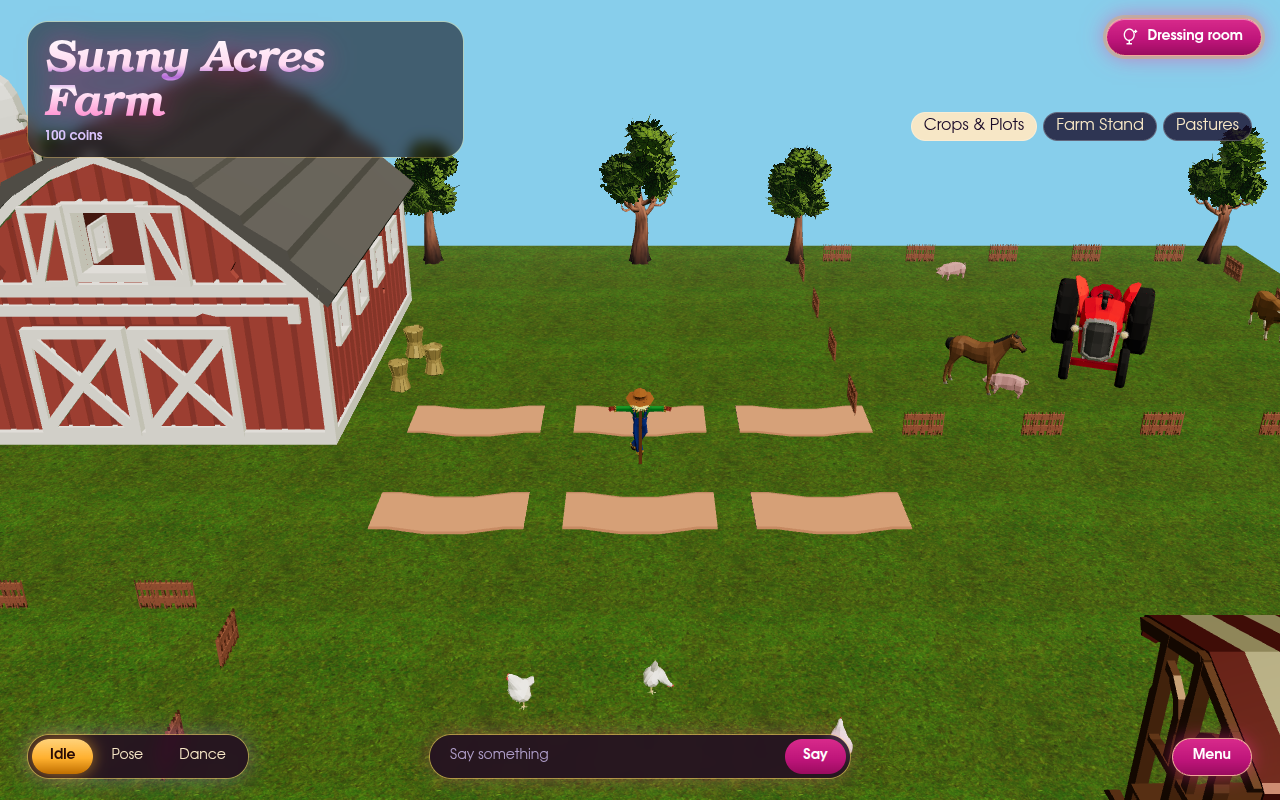
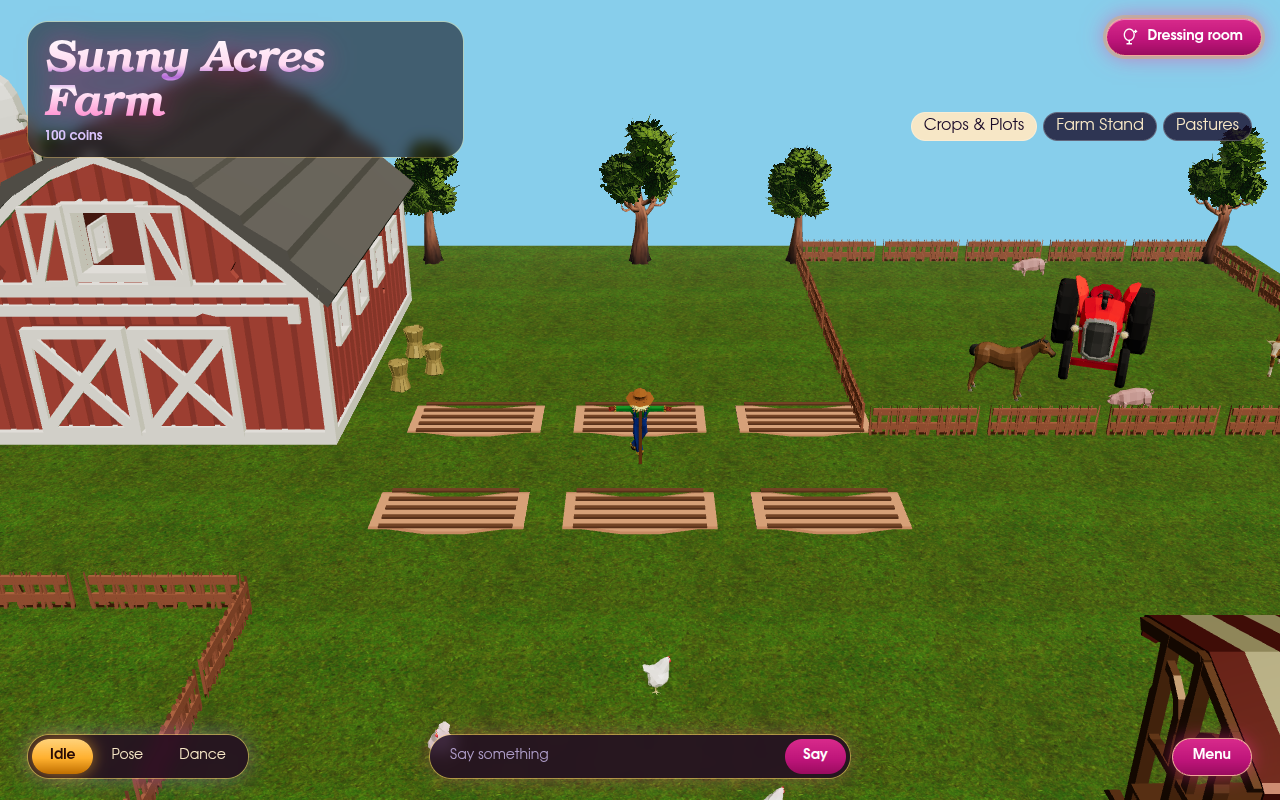
fix(farm): pasture rails stretched to run unbroken; close fence shot

diff --git a/src/game/farm.ts b/src/game/farm.ts
@@ -445,11 +445,11 @@ export const BLOCKERS: readonly (readonly Vec2[])[] = [
   box(8, 10, 13, 14),
 ];
 
-/** Pasture fence panels (the Quaternius fence is 5.9 m long and 1.2 m tall; 0.9 brings it to a farm fence; the panels overlap so the rails run unbroken). */
+/** Pasture fence panels (the Quaternius fence is 5.9 m long and 1.2 m tall; 0.9 brings it to a farm fence; the picket run only fills about 40% of the model box, so panels are stretched to meet end to end). */
 export const PASTURE_FENCE_SPOTS = rectFenceSpots(
   Object.values(PASTURES),
   5.89,
   0.9,
   3.4,
-  1.12,
+  2.7,
 );

diff --git a/scripts/screenshots.ts b/scripts/screenshots.ts
@@ -460,6 +460,8 @@ const SHOTS: {
   { name: "jade-whisk-boba-matcha", query: "room=boba-matcha" },
   { name: "purple-pandesal-ube", query: "room=ube-bakery" },
   { name: "farm", query: "room=farm" },
+  // close on the north pasture's fence rails and the plots
+  { name: "farm-fence", query: "room=farm&cam=12,3.5,-1,12,0.6,-12" },
   {
     name: "plate-rush-app",
     query: "room=city",

diff --git a/tests/client.spec.ts b/tests/client.spec.ts
@@ -2089,7 +2089,6 @@ for (const room of [
   "paintball",
   "music-studio",
   "zoo",
-  "farm",
   "dealership",
   "jazz-club",
   "vinyl-vault",
